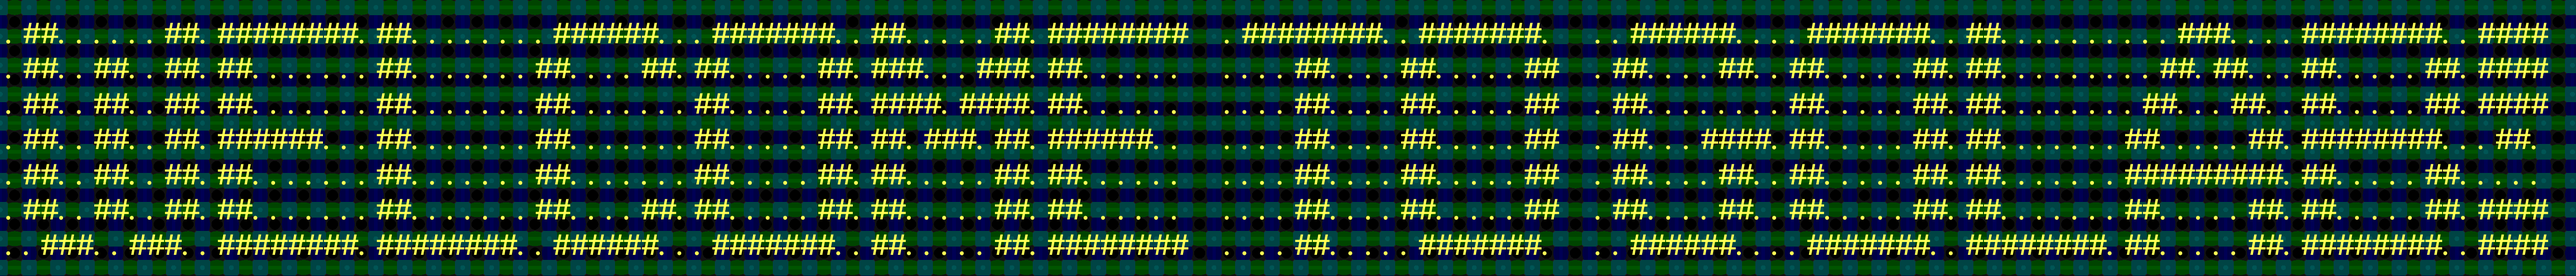
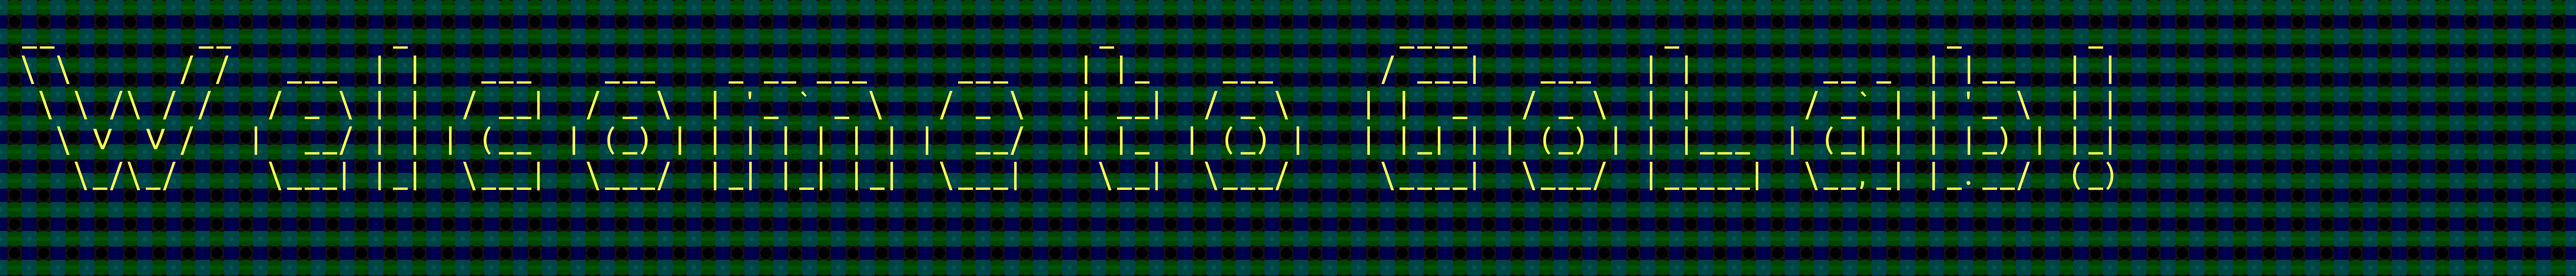
add ascii first try

diff --git a/src/go/asciiart/main.go b/src/go/asciiart/main.go
@@ -19,6 +19,9 @@ import (
 )
 
 func main() {
+	// first try
+	firstTry()
+	// real images
 	var figlet string
 	flag.StringVar(&figlet, "f", "standard", "Figlet font to use")
 	flag.Parse()
@@ -161,7 +164,7 @@ func fgContext(bg draw.Image, fgColorHex, fontPath string, fontSize float64) (*f
 		return nil, err
 	}
 	c.SetSrc(image.NewUniform(fgColor))
-	c.SetHinting(font.HintingNone)
+	// c.SetHinting(firstTry.HintingNone)
 	return c, nil
 }
 
@@ -200,4 +203,42 @@ func mustFile(name string) *os.File {
 		log.Fatal(err)
 	}
 	return f
+}
+
+func firstTry() {
+	const figlet = "standard"
+	const text = "Welcome to GoLab!"
+	fig := figure.NewFigure(text, figlet, true)
+	lines := fig.Slicify()
+
+	// ...
+	const height = 100
+	ctx := freetype.NewContext()
+	c := freetype.NewContext()
+	fontBytes, err := os.ReadFile("./Ubuntu-R.ttf")
+	if err != nil {
+		log.Fatal(err)
+	}
+	f, err := freetype.ParseFont(fontBytes)
+	if err != nil {
+		log.Fatal(err)
+	}
+	c.SetFont(f)
+	c.SetDPI(72)
+	c.SetFontSize(36)
+	r := image.Rect(0, 0, 5600, 600)
+	c.SetClip(r)
+	dst := image.NewRGBA(r)
+	draw.Draw(dst, r, image.Black, image.Pt(0, 0), draw.Over)
+	c.SetDst(dst)
+	c.SetSrc(image.NewUniform(color.RGBA{G: 255, A: 255}))
+	c.SetHinting(font.HintingNone)
+	for i := range lines {
+		ctx.DrawString(lines[i], freetype.Pt(0, height*(i+1)))
+	}
+	out, err := os.Create("ascii-firsttry.png")
+	if err != nil {
+		log.Fatal(err)
+	}
+	png.Encode(out, dst)
 }

diff --git a/src/go/expertComp/main.go b/src/go/expertComp/main.go
@@ -14,7 +14,7 @@ import (
 
 	"github.com/golang/freetype"
 	"golang.org/x/image/font"
-	"golang.org/x/image/font/fixed"
+	// "golang.org/x/image/font/fixed"
 )
 
 func main() {

diff --git a/slides.md b/slides.md
@@ -106,7 +106,7 @@ Most of the images in this presentation are made in Go
 
 ---
 
-# But why would I even start make images or gifs in Go?
+# Why would I even want to make images or gifs in Go?
 
 <v-clicks>
 
@@ -147,7 +147,7 @@ layout: center
 layout: lblue-fact
 ---
 
-Let's start creating our first Image
+Let's create our first image
 
 ---
 
@@ -726,6 +726,8 @@ Creating a banner
 ```go
 f, err := os.Open("golab-speakers.png")
 // ...
+// ...
+// ...
 baseImg, err := png.Decode(f)
 ```
 
@@ -760,17 +762,11 @@ draw.Draw(
 ```go
 import "github.com/golang/freetype"
 // ...
-ftCtx, err := ftContext(base, "0x0000DE", 94.0)
-// ...
-ftCtx.DrawString("Colors, images and gifs:", fixed.P(1200, 400))
-ftCtx.DrawString("bring on the fun with Go", fixed.P(1250, 550))
-ftCtx.DrawString("by Michele Caci", fixed.P(1650, 1150))
-// ...
-func ftContext(bg draw.Image, fgColorHex string, fontSize float64) (*freetype.Context, error) {
-  ctx := freetype.NewContext()
-  // ...
-  return ctx, nil
-}
+ctx := freetype.NewContext()
+// ... fill context information ...
+ctx.DrawString("Colors, images and gifs:", fixed.P(1200, 400))
+ctx.DrawString("bring on the fun with Go", fixed.P(1250, 550))
+ctx.DrawString("by Michele Caci", fixed.P(1650, 1150))
 ```
 ````
 
@@ -784,13 +780,15 @@ func ftContext(bg draw.Image, fgColorHex string, fontSize float64) (*freetype.Co
 
 ---
 
-# 🗃 Layering Images and Text
+# 🗃 How about some ASCII Art?
 
-How about some ASCII Art?
+Printing ASCII Art
 
-We'll make use of an external library [`go-figure`](github.com/common-nighthawk/go-figure). Whose normal usage is this one
+<v-click>
 
 ```go
+package main
+
 import figure "github.com/common-nighthawk/go-figure"
 
 func main() {
@@ -800,8 +798,11 @@ func main() {
   fig.Print()
 }
 ```
+</v-click>
 
-gives this
+<br/>
+
+<v-click>
 
 ```bash
 mcaci@mcaciLaptop:~/go/src/github.com/mcaci/golab25-ColorsGifsGo-slides/src/go/asciiart$ go run .
@@ -811,22 +812,60 @@ mcaci@mcaciLaptop:~/go/src/github.com/mcaci/golab25-ColorsGifsGo-slides/src/go/a
    \ V  V /   |  __/ | | | (__  | (_) | | | | | | | |  __/   | |_  | (_) |   | |_| | | (_) | | |___  | (_| | | |_) | |_|
     \_/\_/     \___| |_|  \___|  \___/  |_| |_| |_|  \___|    \__|  \___/     \____|  \___/  |_____|  \__,_| |_.__/  (_)
 ```
+
+</v-click>
+
+<!-- We'll make use of an external library [`go-figure`](github.com/common-nighthawk/go-figure). Whose normal usage is this one -->
+
 ---
 
 # 🗃 Layering Images and Text
 
 ASCII Art in an image
 
-but if we use `fig.Slicify()` we get control of the result as `[]string`
+````md magic-move
+```go
+package main
 
-this gives us full control to use "github.com/golang/freetype" package that writes strings into an image and do whatever we want with it
+import (
+  figure "github.com/common-nighthawk/go-figure"
+)
 
-we all of the tools that we saw
+func main() {
+  const figlet = "standard"
+  const text = "Welcome to GoLab!"
+  fig := figure.NewFigure(text, figlet, true)
+  lines := fig.Slicify()
+}
+```
 
-and a little eye for positioning each character at the right place in the image
+```go
+package main
 
-<img v-click="+1" src="/images/asciiart.png" class="absolute bottom-40 left-25" style="width: 60%; height: auto;"/>
-<img v-click="+2" src="/images/asciiart-plaid.png" class="absolute bottom-15 left-25" style="width: 60%; height: auto;"/>
+import (
+  figure "github.com/common-nighthawk/go-figure"
+  "github.com/golang/freetype"
+)
+
+func main() {
+  const figlet = "standard"
+  const text = "Welcome to GoLab!"
+  fig := figure.NewFigure(text, figlet, true)
+  lines := fig.Slicify()
+  
+  // ...
+  const height = 100
+  ctx := freetype.NewContext()
+  // ... fill context information ...
+  for i := range lines {
+    ctx.DrawString(lines[i], fixed.P(0, height * (i +  1)))
+  }
+}
+```
+````
+
+<img v-click="+2" src="/images/asciiart.png" class="absolute bottom-40 left-25" style="width: 60%; height: auto;"/>
+<img v-click="+3" src="/images/asciiart-plaid.png" class="absolute bottom-15 left-25" style="width: 60%; height: auto;"/>
 
 ---
 layout: lblue-fact
